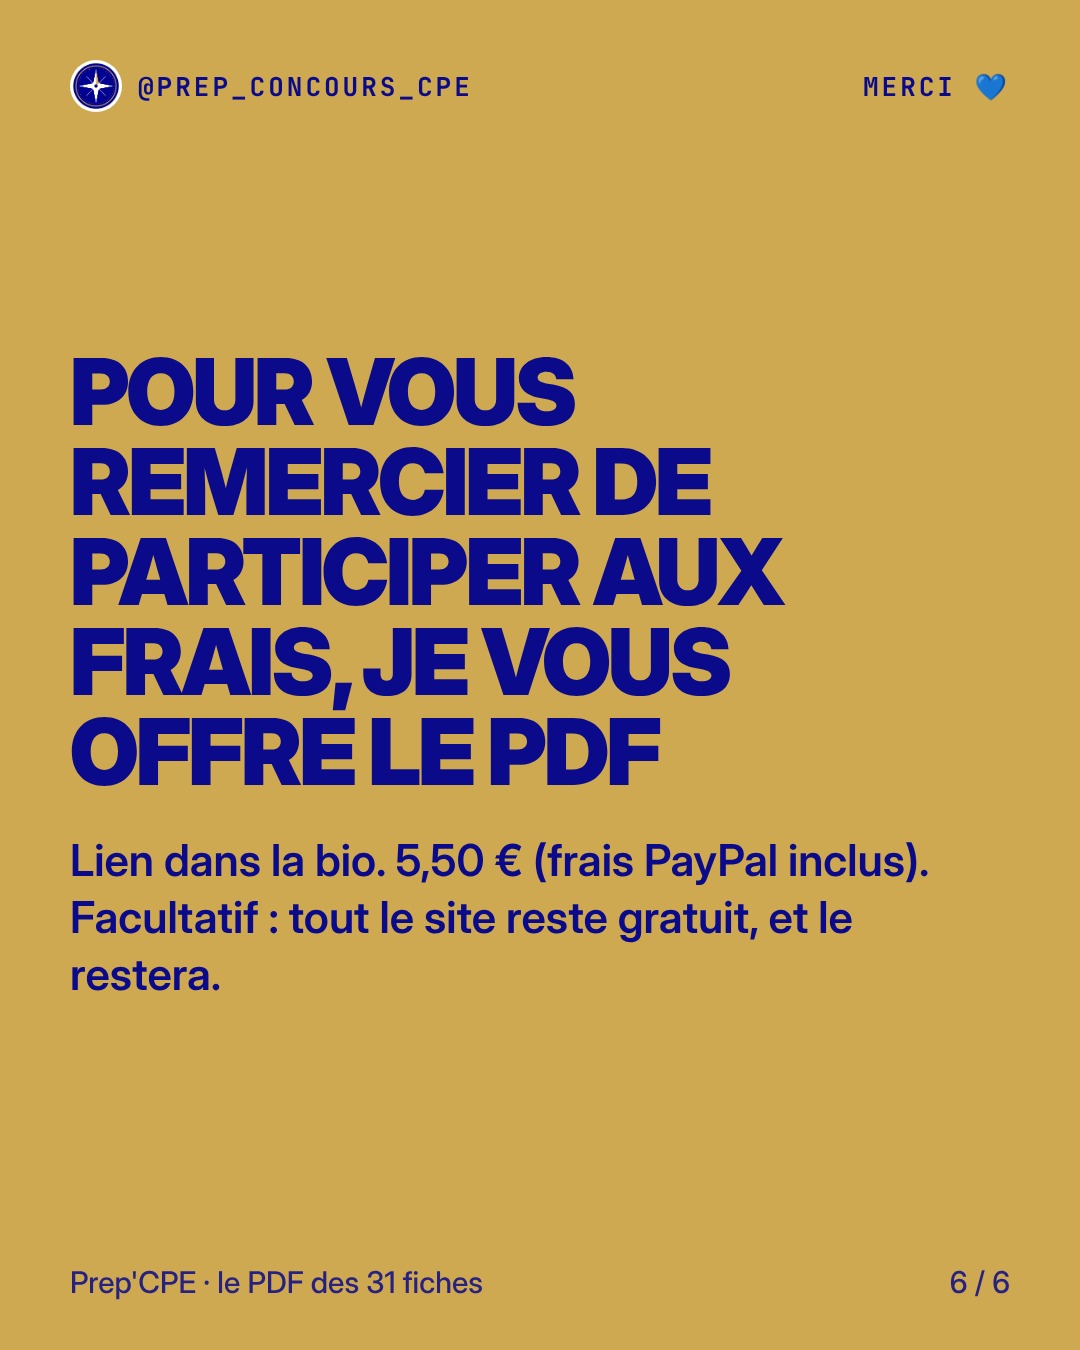
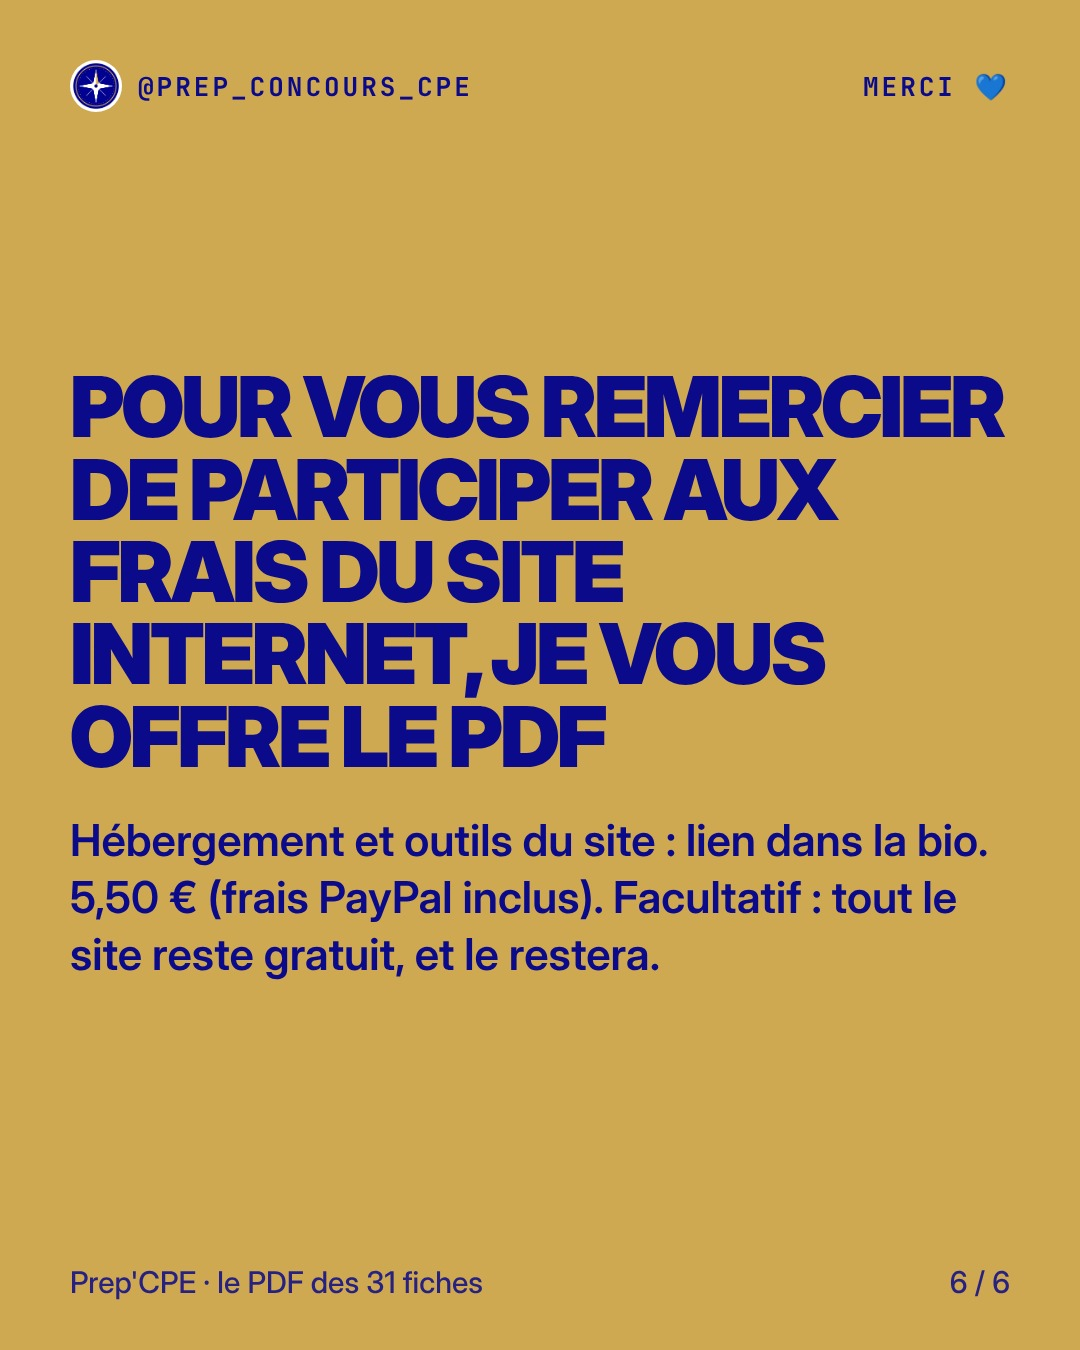
Carrousel PDF : dernière slide précise les frais du site internet
Claude-Session: https://claude.ai/code/session_01FvtqKS2a9jhztCiMdp3pre

Changed region(s): [[0.0611, 0.2489, 0.9472, 0.7467]]

diff --git a/posts/presentation-pdf/LEGENDE.md b/posts/presentation-pdf/LEGENDE.md
@@ -8,7 +8,7 @@ Le PDF des 31 fiches, en images 📄💙
 
 Dedans : les 31 fiches de révision, 8 récapitulatifs par thème, un mode d'emploi avec un plan de révision jusqu'aux écrits, et un tableau de suivi pour cocher vos fiches. 152 pages, en couleur ou en noir et blanc pour imprimer.
 
-Tout le site reste gratuit et le restera. Pour vous remercier de participer aux frais (5,50 €, frais PayPal inclus), je vous offre ce PDF. C'est facultatif : le contenu en ligne reste complet pour tout le monde.
+Tout le site reste gratuit et le restera. Pour vous remercier de participer aux frais du site internet (hébergement et outils ; 5,50 €, frais PayPal inclus), je vous offre ce PDF. C'est facultatif : le contenu en ligne reste complet pour tout le monde.
 
 Lien en bio. Vous préparez quel concours : externe, interne ou 3e concours ? Dites-le en commentaire.
 
